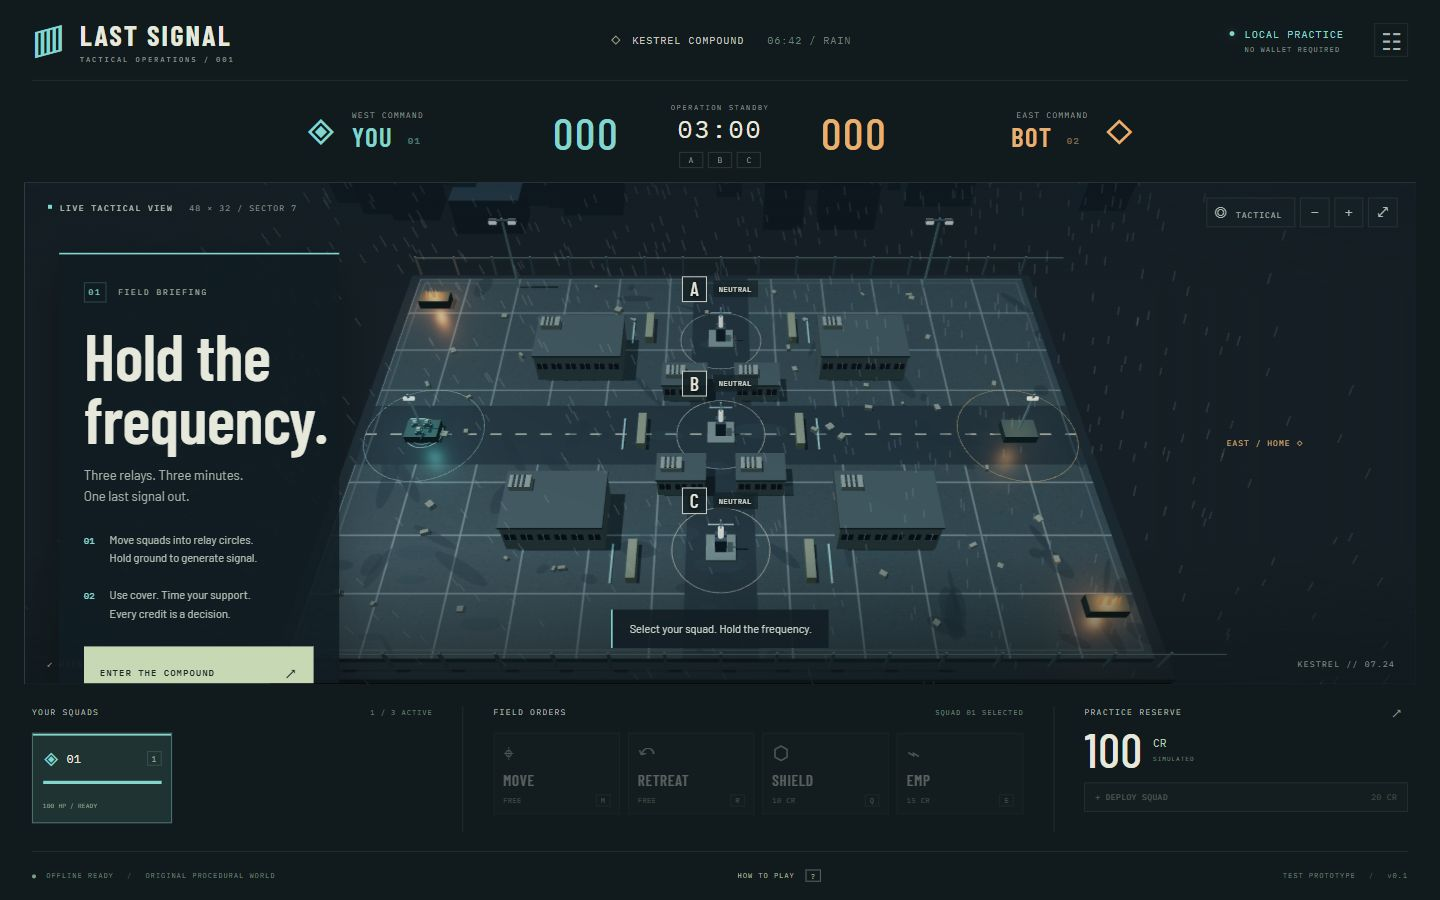
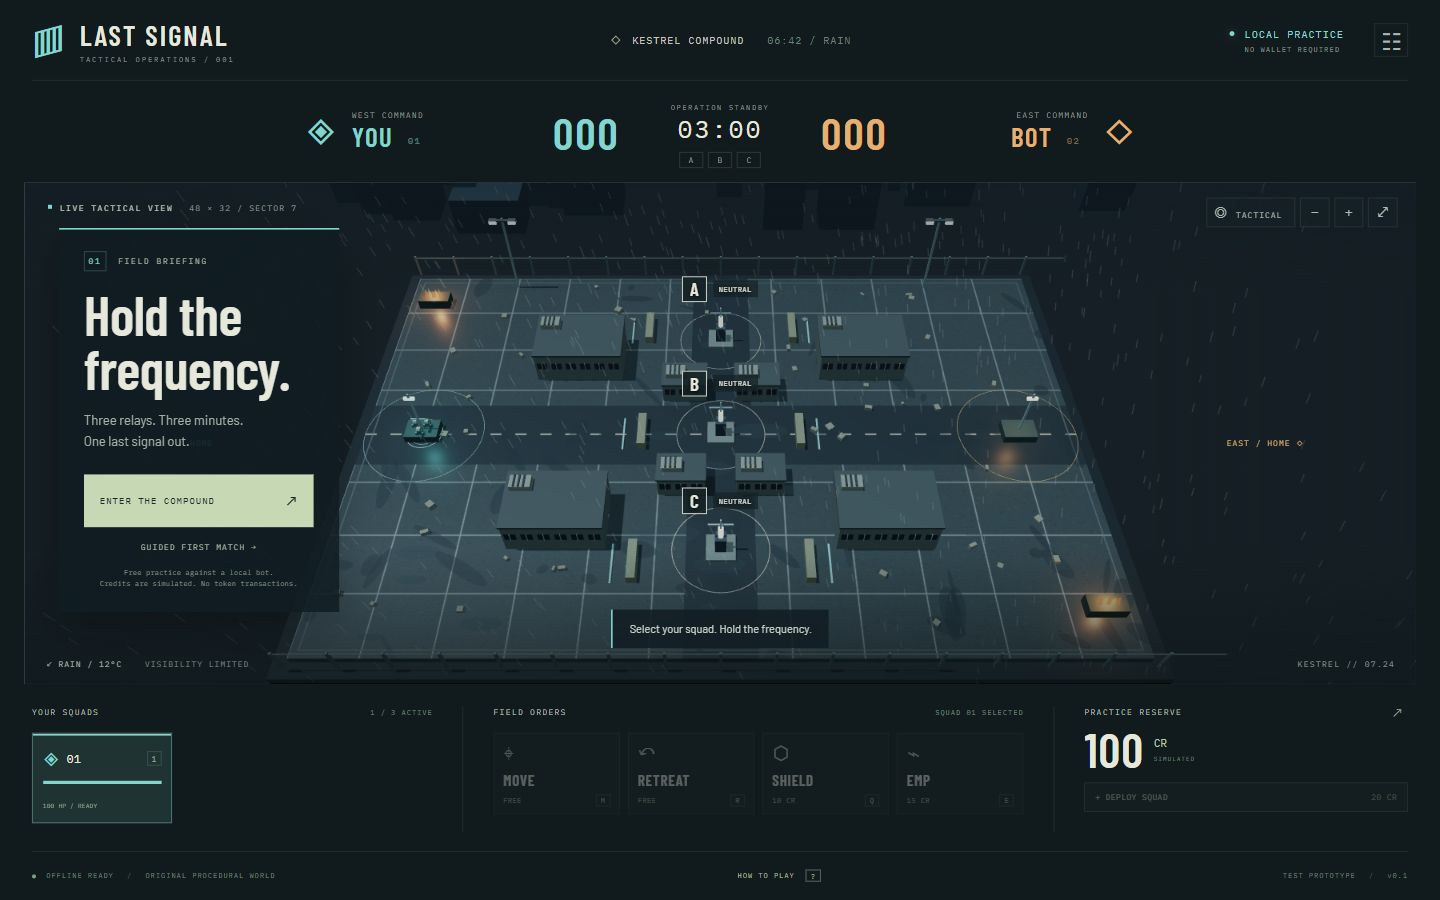
Keep briefing controls visible with bundled fonts

diff --git a/apps/web/src/style.css b/apps/web/src/style.css
@@ -11,3 +11,5 @@
 @media(prefers-reduced-motion:reduce){*,*::before,*::after{scroll-behavior:auto!important;animation:none!important;transition:none!important}}
 @media(max-height:850px) and (min-width:761px){.briefing{top:55px;padding:19px 22px;width:260px}.briefing h1{font-size:48px;margin:15px 0}.briefing>p{font-size:12px;margin-bottom:12px}.briefing .brief-rule{display:none}.briefing .primary{margin-top:17px;padding:13px 12px}.briefing .text-button{padding:13px 0}.briefing>small{font-size:6px}}
 @media(max-width:760px){.command-deck{grid-template-columns:minmax(0,1fr) 120px;gap:12px}.orders{padding-right:10px}.action{min-width:0}.action small{letter-spacing:0;font-size:5px}.reserve,.orders,.squad-panel{min-width:0}.commander{width:77px;gap:4px;flex-shrink:0}.commander small{font-size:5px;letter-spacing:0}.commander .team-icon{font-size:22px}.scoreboard{gap:6px}.scoreboard>span{width:35px;font-size:29px}.match-time{min-width:90px}.match-time>strong{font-size:19px}.briefing .brief-rule{display:none}.briefing{padding:20px;top:55px}.briefing>p{margin-bottom:15px}}
+.briefing{max-height:calc(100% - 75px);overflow-y:auto}
+@media(min-width:761px) and (min-height:851px) and (max-height:1000px){.briefing{top:45px;padding:22px 25px}.briefing .brief-rule{display:none}.briefing h1{font-size:56px;margin:16px 0}.briefing>p{margin-bottom:14px}}

diff --git a/docs/PROOF.md b/docs/PROOF.md
@@ -57,6 +57,8 @@ Final strict production build passed after font bundling, timer correction, phon
 
 No combat video was recorded. Keyboard only, physical touch, no WebGL fallback, performance profiling, human balance review and network security tests are pending.
 
+Final handoff review found that bundled font metrics made the medium height desktop briefing too tall. A CSS correction hides redundant briefing detail at that size and adds a bounded scroll fallback. At 1440 by 900, both start buttons and the whole briefing were confirmed inside the battlefield. The desktop evidence was refreshed and the production build repeated successfully. This last change only affects CSS.
+
 ## Not present
 
 No multiplayer match, local blockchain, contract tests, funding, settlement, timeout refund, public URL, chain address, transaction hash or organizer eligibility confirmation exists. Contract accounting and signature security are NOT_STARTED. Do not use these screenshots as chain evidence.
